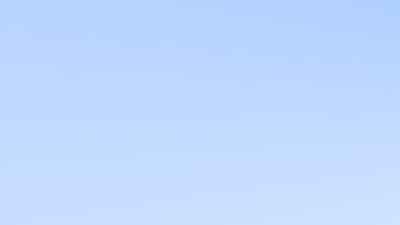
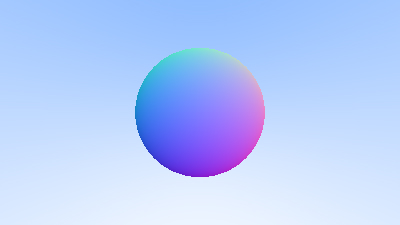
sphere with normals

diff --git a/RayTracing-Weekend/main.cpp b/RayTracing-Weekend/main.cpp
@@ -12,9 +12,28 @@
 #include "Vec3.h"
 #include "ray.h"
 
+double hitSphere(const Point3& center, double radius, const Ray& r) {
+    Vec3 oc = r.getOrigin() - center;
+    auto a = dot(r.getDirection(), r.getDirection());
+    auto b = 2.0 * dot(oc, r.getDirection());
+    auto c = dot(oc, oc) - radius * radius;
+    auto discriminant = b * b - 4 * a * c;
+    if (discriminant < 0) {
+        return -1.0;
+    }
+    else {
+        return (-b - sqrt(discriminant)) / (2.0 * a);
+    }
+}
+
 Color rayColor(const Ray& r) {
+    auto t = hitSphere(Point3(0, 0, -1), 0.5, r);
+    if (t > 0.0) {
+        Vec3 N = normalize(r.at(t) - Vec3(0, 0, -1));
+        return 0.5 * Color(N.getX() + 1, N.getY() + 1, N.getZ() + 1);
+    }
     Vec3 unitDirection = normalize(r.getDirection());
-    auto t = 0.5 * (unitDirection.getY() + 1.0);
+    t = 0.5 * (unitDirection.getY() + 1.0);
     return (1.0 - t) * Color(1.0, 1.0, 1.0) + t * Color(0.5, 0.7, 1.0);
 }
 
